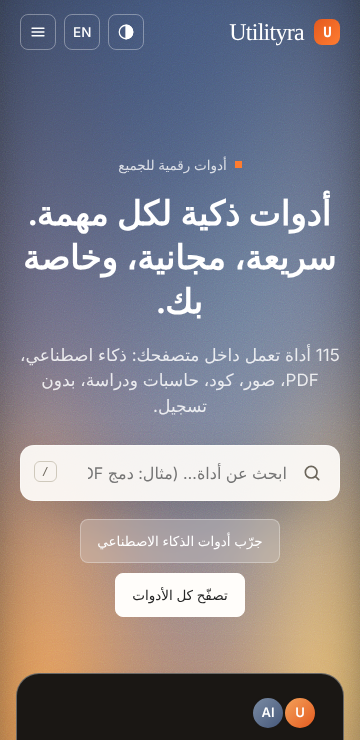
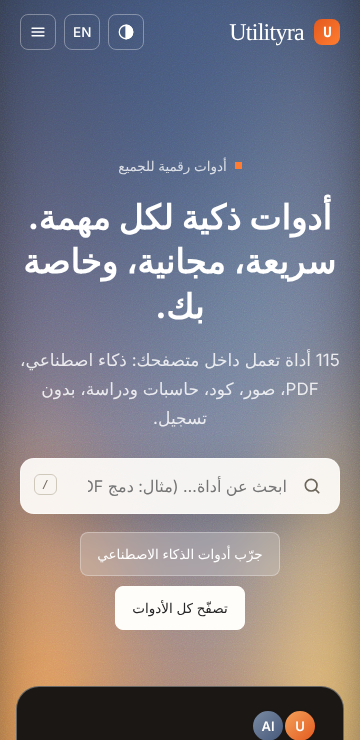
Analytics: exclude owner and automated visits (#15)
* Analytics: skip owner (admin visit / ?notrack=1) and webdriver browsers

Claude-Session: https://claude.ai/code/session_01XFyGnZQLbsRMmR5Q2gq1Am

* Design: unified type scale, centered admin login, footer typography; analytics skips owner/webdriver

Claude-Session: https://claude.ai/code/session_01XFyGnZQLbsRMmR5Q2gq1Am

---------

diff --git a/src/assets/css/app.css b/src/assets/css/app.css
@@ -266,3 +266,22 @@ input[type="file"]::file-selector-button:hover { filter: brightness(1.08); }
 .ck { display: inline-flex; gap: 6px; align-items: center; font-size: 13.5px; }
 .bubble pre { overflow: auto; padding: 12px; padding-top: 30px; border-radius: 10px; background: var(--paper); direction: ltr; text-align: left; }
 @media (max-width: 380px) { .hdr .in { gap: 8px; } .hbtn { min-width: 36px; height: 36px; padding: 6px 8px; } }
+
+/* ---- Type scale v3: one consistent hierarchy; Arabic never uses mono/uppercase ---- */
+:root { --t-xs: 12.5px; --t-sm: 14px; --t-md: 16px; --t-lg: 18px; --t-h3: 19px; --t-h2: clamp(24px, 3vw, 32px); --t-h1: clamp(30px, 4.4vw, 46px); --gap: 16px; }
+html[lang="ar"] body { font-size: var(--t-md); line-height: 1.7; }
+html[lang="ar"] h1, html[lang="ar"] h2, html[lang="ar"] h3, html[lang="ar"] h4 { font-family: var(--sans); font-weight: 700; letter-spacing: 0; line-height: 1.35; }
+html[lang="ar"] .logo { font-family: var(--serif); }
+html[lang="ar"] .ftr-b, html[lang="ar"] .ftr-b *, html[lang="ar"] .ftr .mono, html[lang="ar"] .fb, html[lang="ar"] .fbot, html[lang="ar"] .fbot a, html[lang="ar"] .eyebrow, html[lang="ar"] .tcard .tag, html[lang="ar"] .rc-l, html[lang="ar"] .step i, html[lang="ar"] .how .n { font-family: var(--sans); text-transform: none; letter-spacing: 0; }
+h1 { font-size: var(--t-h1); } h2 { font-size: var(--t-h2); } h3 { font-size: var(--t-h3); }
+.hero h1 { font-size: clamp(34px, 5.4vw, 60px); }
+.tool-page h1, .ttl h1 { font-size: var(--t-h1); }
+.tcard h3, .ccat h3 { font-size: var(--t-md); } .tcard p, .ccat p { font-size: var(--t-sm); color: var(--muted); }
+.panel h2 { font-size: var(--t-h3); margin: 0 0 var(--gap); }
+.panel .fld + .fld, .panel form > .btn, .panel form > button, .panel .fld + .btn { margin-top: var(--gap); }
+#lf { display: flex; flex-direction: column; gap: var(--gap); } #lf .btn { align-self: flex-start; min-width: 120px; justify-content: center; } #lf h2 { margin: 0; }
+.tool-status { font-size: var(--t-sm); line-height: 1.6; margin: 0; }
+.stat .v, .kpi .v { font-size: 28px; font-weight: 700; } .stat .l, .kpi .l { font-size: var(--t-xs); color: var(--muted); }
+.copy, .copy span, .copy a { font-family: var(--sans); text-transform: none; letter-spacing: 0; font-size: var(--t-xs); }
+html[lang="ar"] .copy, html[lang="ar"] .copy * { font-family: var(--sans); }
+#lf { margin-inline: auto; max-width: 440px; width: 100%; }

diff --git a/src/assets/js/app.js b/src/assets/js/app.js
@@ -133,7 +133,8 @@
   /* ---------- privacy-minimised analytics (no cookies, no IP, skipped on Do-Not-Track) ---------- */
   (function () {
     try {
-      if (navigator.doNotTrack === '1' || /^\/admin(\/|$)/.test(location.pathname)) return;
+      if (/^\/admin(\/|$)/.test(location.pathname)) { try { localStorage.setItem('ur-notrack', '1'); } catch (e) { /* ignore */ } return; }
+      if (navigator.doNotTrack === '1' || navigator.webdriver || localStorage.getItem('ur-notrack') === '1' || /[?&]notrack=1/.test(location.search)) { if (/[?&]notrack=1/.test(location.search)) localStorage.setItem('ur-notrack', '1'); return; }
       let vk = localStorage.getItem('ur-vk'); if (!vk) { vk = (crypto.randomUUID ? crypto.randomUUID() : String(Math.random()).slice(2) + Date.now().toString(16) + 'xxxxxxxx'); localStorage.setItem('ur-vk', vk); }
       const send = (eventType, extra) => { const body = JSON.stringify(Object.assign({ visitorKey: vk, eventType, path: location.pathname, referrer: document.referrer }, extra || {})); const url = ((window.UTILITYRA || {}).apiBase || '') + '/api/analytics/event'; try { fetch(url, { method: 'POST', headers: { 'content-type': 'application/json' }, body, keepalive: true }).catch(() => {}); } catch (e) { /* ignore */ } };
       window.URAnalytics = { send };

diff --git a/docs/test-logs/e2e-latest.md b/docs/test-logs/e2e-latest.md
@@ -1,6 +1,6 @@
 # E2E test log
 
-Generated: 2026-10-24T19:32:01.822Z
+Generated: 2026-10-24T19:58:42.602Z
 
 **295/295 passed**, 0 failed.
 
